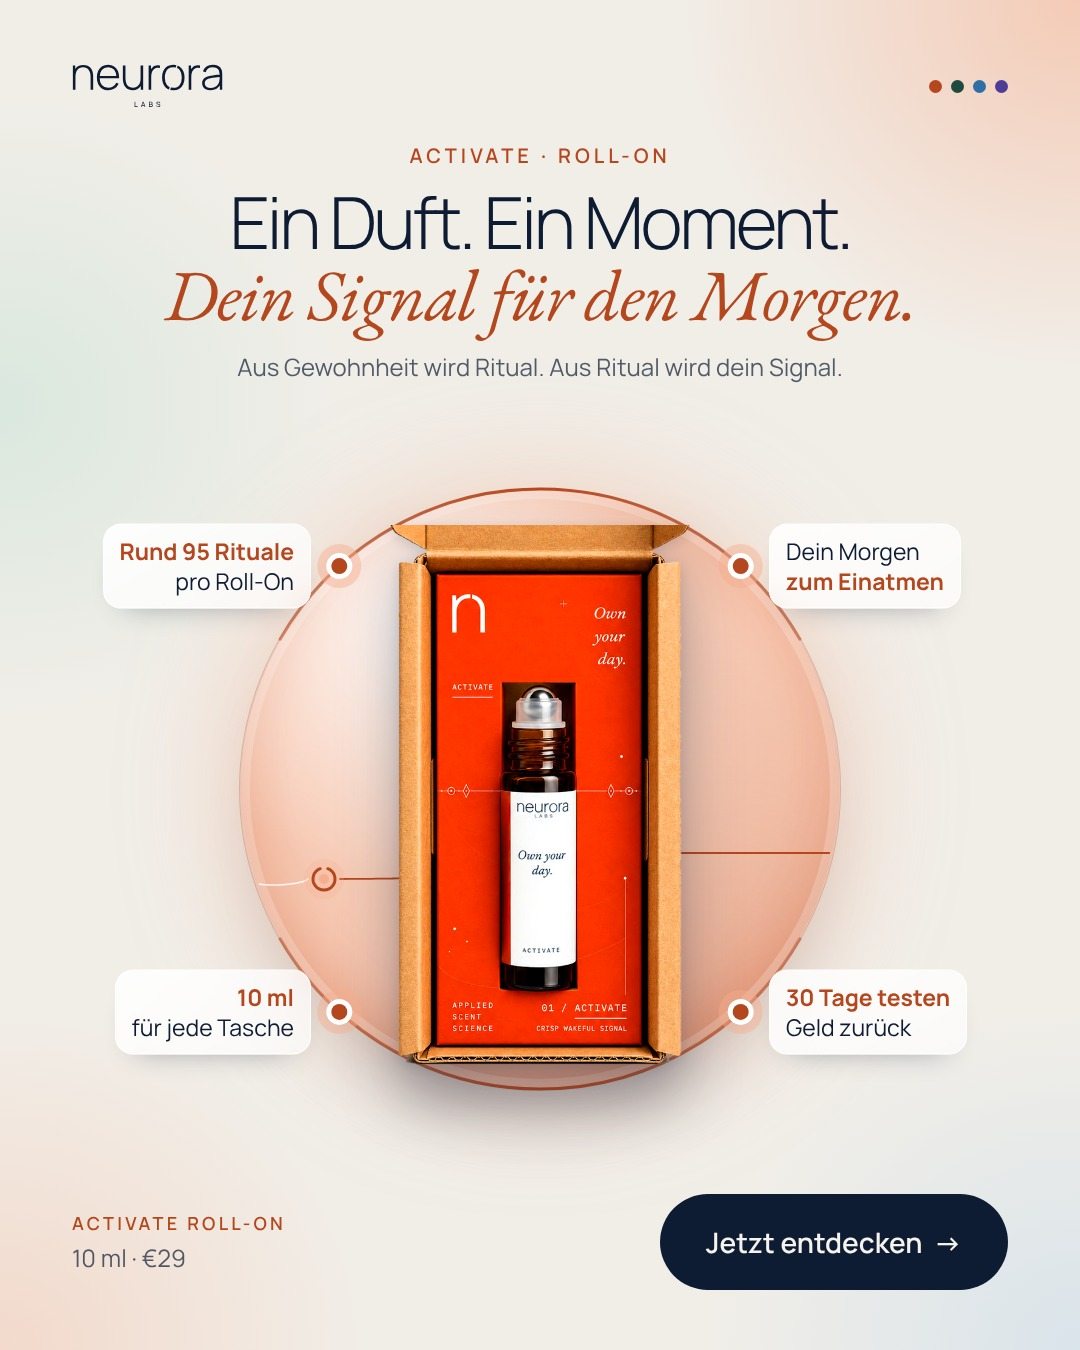
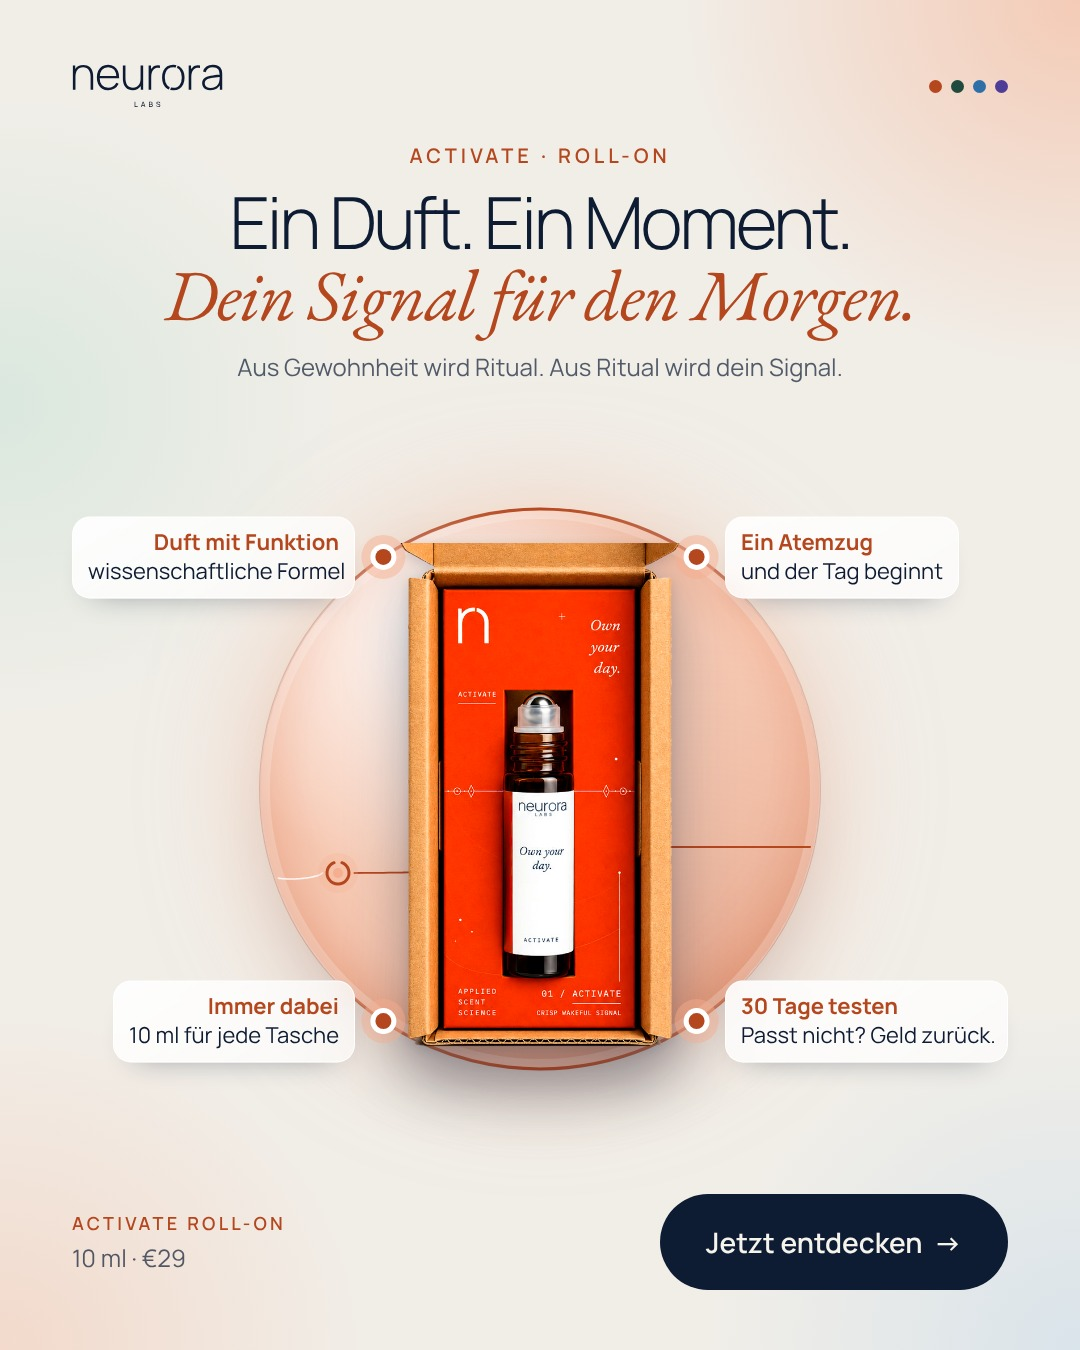
Meta ads 18/19: new callout benefits (Duft mit Funktion, Immer dabei, Ein Atemzug, 30 Tage)
Claude-Session: https://claude.ai/code/session_01QRoExmTLVyJJqyXzJd8417

Changed region(s): [[0.0611, 0.3422, 0.9167, 0.84]]

diff --git a/ads/meta-rollout-2026-11/source/gen3.py b/ads/meta-rollout-2026-11/source/gen3.py
@@ -11,7 +11,7 @@ EXTRA = """
 .badge{display:inline-flex;align-items:center;gap:12px;background:#0D1B33;color:#F6F3EC;border-radius:999px;padding:12px 24px 12px 18px;font-size:20px;font-weight:600;letter-spacing:.16em;text-transform:uppercase}
 .emo{font-family:'Noto Color Emoji';letter-spacing:0;font-style:normal}
 h1 .it{letter-spacing:-.02em;font-weight:400}
-.callout{white-space:nowrap;font-size:23px;line-height:1.28;font-weight:400;color:#0D1B33;z-index:4;padding:12px 16px;border-radius:18px;
+.callout{white-space:nowrap;font-size:22px;line-height:1.3;font-weight:400;color:#0D1B33;z-index:4;padding:11px 15px;border-radius:18px;
  background:linear-gradient(150deg,rgba(255,255,255,.9),rgba(255,255,255,.66));border:1px solid rgba(255,255,255,.95);
  box-shadow:0 16px 30px -22px rgba(13,27,51,.45);backdrop-filter:blur(10px)}
 .callout b{font-weight:700;color:var(--c)}
@@ -52,10 +52,10 @@ def ad_goodie(fmt):
 
 # ---------- 18 Roll-On: Signal ring (all states) ----------
 RO = {
-    "activate": dict(sig="Dein Signal für den Morgen.", air="Dein Morgen<br><b>zum Einatmen</b>"),
-    "focus":    dict(sig="Dein Signal zum Abtauchen.", air="Dein Fokus<br><b>zum Einatmen</b>"),
-    "calm":     dict(sig="Dein Signal für den Feierabend.", air="Dein Feierabend<br><b>zum Einatmen</b>"),
-    "sleep":    dict(sig="Dein Signal für die Nacht.", air="Dein Abend<br><b>zum Einatmen</b>"),
+    "activate": dict(sig="Dein Signal für den Morgen.", air="<b>Ein Atemzug</b><br>und der Tag beginnt"),
+    "focus":    dict(sig="Dein Signal zum Abtauchen.", air="<b>Ein Atemzug</b><br>dann tauchst du ab"),
+    "calm":     dict(sig="Dein Signal für den Feierabend.", air="<b>Ein Atemzug</b><br>ab jetzt ist Feierabend"),
+    "sleep":    dict(sig="Dein Signal für die Nacht.", air="<b>Ein Atemzug</b><br>und der Tag ist vorbei"),
 }
 
 def ring(st, W, D, bottle=False):
@@ -65,7 +65,7 @@ def ring(st, W, D, bottle=False):
     def arc(d0, d1):
         x0, y0 = pt(d0); x1, y1 = pt(d1)
         return f"M {x0:.1f} {y0:.1f} A {r} {r} 0 {1 if (d1 - d0) % 360 > 180 else 0} 1 {x1:.1f} {y1:.1f}"
-    calls = [(318, "<b>Rund 95 Rituale</b><br>pro Roll-On"), (222, "<b>10 ml</b><br>für jede Tasche"), (42, RO[st]["air"]), (138, "<b>30 Tage testen</b><br>Geld zurück")]
+    calls = [(326, "<b>Duft mit Funktion</b><br>wissenschaftliche Formel"), (214, "<b>Immer dabei</b><br>10 ml für jede Tasche"), (34, RO[st]["air"]), (146, "<b>30 Tage testen</b><br>Passt nicht? Geld zurück.")]
     # layer 0: dense state-colour disc
     disc = (f"<div style='position:absolute;left:{cx - r}px;top:{cy - r}px;width:{D}px;height:{D}px;border-radius:50%;"
             f"background:radial-gradient(circle at 30% 22%,rgba(255,255,255,.9) 0%,rgba(255,255,255,0) 42%),"
@@ -81,8 +81,8 @@ def ring(st, W, D, bottle=False):
     back = (f"<svg width='{W}' height='{H}' style='position:absolute;left:0;top:0;z-index:1;overflow:visible'>"
             f"<circle cx='{cx}' cy='{cy}' r='{r}' fill='none' stroke='{c['c']}' stroke-opacity='.28' stroke-width='2'/>"
             f"<defs><linearGradient id='ag' x1='0' x2='1'><stop offset='0' stop-color='{c['c']}' stop-opacity='.55'/><stop offset='.5' stop-color='{c['c']}'/><stop offset='1' stop-color='{c['c']}' stop-opacity='.55'/></linearGradient></defs>"
-            f"<path d='{arc(300, 60)}' fill='none' stroke='url(#ag)' stroke-width='3.2' stroke-linecap='round'/>"
-            f"<path d='{arc(120, 240)}' fill='none' stroke='url(#ag)' stroke-width='3.2' stroke-linecap='round'/>"
+            f"<path d='{arc(316, 44)}' fill='none' stroke='url(#ag)' stroke-width='3.2' stroke-linecap='round'/>"
+            f"<path d='{arc(136, 224)}' fill='none' stroke='url(#ag)' stroke-width='3.2' stroke-linecap='round'/>"
             f"<defs><clipPath id='dc'><circle cx='{cx}' cy='{cy}' r='{r - 3}'/></clipPath></defs><g clip-path='url(#dc)'>"
             f"<path d='{d1}' fill='none' stroke='#fff' stroke-opacity='.85' stroke-width='1.6' stroke-linecap='round'/>"
             f"<path d='{d2}' fill='none' stroke='{c['c']}' stroke-width='1.8' stroke-linecap='round'/>"
@@ -113,7 +113,7 @@ def ring(st, W, D, bottle=False):
 def ad_rollon(st, fmt, bottle=False):
     c = S[st]; tall = fmt == "916"
     W = 924 if tall else 936
-    D = 640 if tall else 600
+    D = 560
     body = (top(st, "dots")
       + "<div class='center'>"
         f"<div class='eyebrow'>{c['name']} · Roll-On</div>"

diff --git a/ads/meta-rollout-2026-11/README.md b/ads/meta-rollout-2026-11/README.md
@@ -30,7 +30,7 @@ Before launch: claims marked in the strategy doc (§9) still need Claims Registe
 ## Runde 3 (20.11.2026)
 
 - **17 Gratis-Goodie** (Retargeting): „Ein Roll-On geht aufs Haus. 🎁“. Zeigt die vier Geschenk-Boxen, ohne Schwellenwert, ohne Enddatum. Ziel: `/collections/sets`.
-- **18a–d Roll-On Signal-Ring** (alle vier Zustände): ersetzt die dunkle Anzeige „Kopf noch an? Licht aus, Duft an.“. Neue Botschaft „Ein Duft. Ein Moment. Dein Signal für …“. Creme, Frosted, Mood Dots, Signal-Line-Ring und die offene Box als Hero. Die Callouts bleiben, aus „4 ätherische Öle“ wird „Rund 95 Rituale pro Roll-On“.
+- **18a–d Roll-On Signal-Ring** (alle vier Zustände): ersetzt die dunkle Anzeige „Kopf noch an? Licht aus, Duft an.“. Neue Botschaft „Ein Duft. Ein Moment. Dein Signal für …“. Creme, Frosted, Mood Dots, Signal-Line-Ring und die offene Box als Hero. Die Callouts bleiben, aus „4 ätherische Öle“ wurde zuerst „Rund 95 Rituale pro Roll-On“, siehe Runde 5.
 - Generator: `source/gen3.py`. Freisteller der Boxen: `source/boxcut.py` (harter Freisteller mit leichtem Kontrast- und Farb-Boost, ohne Fotoschatten).
 - **19a–d Roll-On Signal-Ring, Flasche ohne Verpackung**: gleiche Texte wie 18a–d. Die Flasche steht leicht geneigt in einem dichteren Zustandsfarb-Kreis. Durch den Kreis läuft eine feine, zustandsspezifische Signal Line hinter der Flasche. In 9:16 entfällt das untere Signal-Band (eine Signal Line pro Fläche).
   Die Flaschen sind aus dem Brand-Atlas-Packshot „Sleep Roll-On“ (Line-up) freigestellt. Der seitliche Farbstreifen wurde retuschiert, weil der KI-Packshot dort verfälschten Text zeigt („SCEN YOU CAN FEEY…“). Sobald echte Freisteller-Fotos der Flaschen vorliegen, bitte austauschen. Skript: `source/bottlecut.py`.
@@ -45,3 +45,5 @@ Before launch: claims marked in the strategy doc (§9) still need Claims Registe
 - **04 Founder-Zitat**: Das Porträt von der Startseite (Poster des Gründer-Videos, Philip vor dem Neurora-Regal) ist jetzt das Hero-Bild, im Frosted Board mit „Philip über das Ritual“-Play-Badge. Der runde Avatar und das Produktfoto entfallen.
 - **01–03 Frage-Badge**: Die Emojis 🌙, 🛋 und 💻 sind entfernt. Die Frage steht jetzt als Navy-Pille im Stil des Gratis-Goodie-Badges („SIEHT DEIN ABEND SO AUS“) und endet in einem ❓ in einer leuchtenden Creme-Scheibe.
   Es gibt zusätzlich animierte Versionen: Das ❓ wackelt, wird kurz größer und leuchtet auf, als Loop von 4,8 s. Dateien: `video-4x5/` und `video-9x16/` (MP4, H.264). In Meta als Video-Anzeige hochladen, mit denselben Texten wie die Standbilder. Skript: `source/anim.js`.
+- **Runde 5, Callouts 18/19**: „Duft mit Funktion · wissenschaftliche Formel“ ersetzt „Rund 95 Rituale“. Dazu „Immer dabei · 10 ml für jede Tasche“, „Ein Atemzug · und der Tag beginnt / dann tauchst du ab / ab jetzt ist Feierabend / und der Tag ist vorbei“ und „30 Tage testen · Passt nicht? Geld zurück.“ Die Punkte sitzen flacher am Ring, damit alle Pills zweizeilig passen.
+  **Claims-Check offen:** „wissenschaftliche Formel“ vor dem Livegang im Claims Register freigeben lassen. Live freigegeben ist auf der Seite „Auf Wissenschaft gebaut“.
